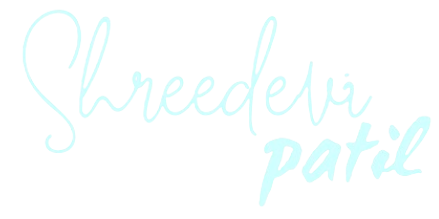
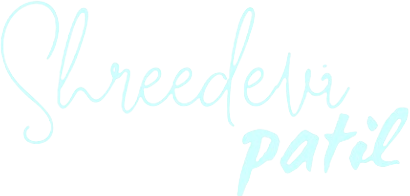
Fixed the issue of web-page getting navigated to home section

diff --git a/index.html b/index.html
@@ -11,12 +11,11 @@
     <!-- Bootstrap Icons CSS -->
     <link href="https://cdn.jsdelivr.net/npm/bootstrap-icons/font/bootstrap-icons.css" rel="stylesheet">
     <link rel="stylesheet" href="style.css">
-
 </head>
 <body>
 <div id="circle-container">
 </div>
-<nav class="navbar navbar-expand-lg">
+<nav class="navbar navbar-expand-lg fix-nav">
     <div class="w-100 center align-items-start justify-content-between">
         <img src="Assets/images/shreedevi.png" alt="Logo">
         <div>
@@ -25,7 +24,7 @@
                     aria-controls="offcanvasNavbar">
                 <span class="navbar-toggler-icon text-light"></span>
             </button>
-            <div class="collapse navbar-collapse d-lg-flex flex-wrap" id="navbarNav">
+            <div class="collapse navbar-collapse d-lg-flex flex-wrap">
                 <h3><a class="nav-item active-nav" href="#home">Home</a></h3>
                 <h3><a class="nav-item" href="#skills">Skills</a></h3>
                 <h3><a class="nav-item" href="#work">Work-experience</a></h3>
@@ -42,26 +41,16 @@
         <button type="button" class="btn-close bg-light" data-bs-dismiss="offcanvas" aria-label="Close"></button>
     </div>
     <div class="offcanvas-body">
-        <h3>
-            <a class="nav-item" href="#home">Home</a>
-        </h3>
-        <h3>
-            <a class="nav-item" href="#skills">Skills</a>
-        </h3>
-        <h3>
-            <a class="nav-item" href="#work">Work-experience</a>
-        </h3>
-        <h3>
-            <a class="nav-item" href="#project">Projects</a>
-        </h3>
-        <h3>
-            <a class="nav-item" href="#contact">Contact</a>
-        </h3>
+        <h3><a class="nav-item" href="#home">Home</a></h3>
+        <h3><a class="nav-item" href="#skills">Skills</a></h3>
+        <h3><a class="nav-item" href="#work">Work-experience</a></h3>
+        <h3><a class="nav-item" href="#project">Projects</a></h3>
+        <h3><a class="nav-item" href="#contact">Contact</a></h3>
     </div>
 </div>
 
 
-<section id="home" class="d-lg-flex justify-content-around p-5 m-auto">
+<section id="home" class="d-lg-flex justify-content-around p-5 m-auto mt-5">
     <img src="Assets/images/hi.gif" class="hi-image">
     <div class="intro text-center">
         <span class="hello"><b>Hello!</b></span>
@@ -386,7 +375,7 @@
 <!-- Resume -->
 <div class="resume">
     <div id="downloadResume">
-      <a href="Assets/Files/Shreedevi-RESUME.pdf" target="_blank" class="text-decoration-none text-light">
+        <a href="Assets/Files/Shreedevi-RESUME.pdf" target="_blank" class="text-decoration-none text-light">
             <i class="bi bi-file-text ps-1"></i>
             Get Resume
         </a>

diff --git a/script.js b/script.js
@@ -36,9 +36,8 @@ document.addEventListener('DOMContentLoaded', function () {
         circleContainer.appendChild(circleElement);
     }
 
+   /* // Smooth scroll to section
     const navItems = document.querySelectorAll('.nav-item');
-
-    // Smooth scroll to section
     navItems.forEach(item => {
         item.addEventListener('click', event => {
             event.preventDefault();
@@ -46,7 +45,8 @@ document.addEventListener('DOMContentLoaded', function () {
                 behavior: 'smooth'
             });
         });
-    });
+    });*/
+
     gsap.registerPlugin(TextPlugin);
     const phrases = [
         "Frontend Development",
@@ -102,15 +102,37 @@ document.addEventListener('DOMContentLoaded', function () {
     // Example animation
     document.querySelectorAll('section').forEach(sec => {
         gsap.from(sec, {
-            y: 200,
+            y: 100,
             opacity: 0,
             duration: 1,
             scrollTrigger: {
                 trigger: sec,
-                start: "top 100%", // When the top of the box hits 80% from the top of the viewport
-                end: "top 50%", // When the top of the box hits 50% from the top of the viewport
-                scrub: 1, // Smooth scrolling
-                toggleActions: "play none none reverse", // Play animation on scroll, reverse on scroll back
+                start: "top 80%",
+                end: "top 50%",
+                scrub: 1,
+                toggleActions: "play none none reverse",
+            }
+        });
+    });
+    const navItems = document.querySelectorAll('.nav-item');
+    const offcanvasElement = document.getElementById('offcanvasNavbar');
+    const bsOffcanvas = new bootstrap.Offcanvas(offcanvasElement);
+
+    navItems.forEach(item => {
+        item.addEventListener('click', event => {
+            event.preventDefault();
+
+            const targetId = item.getAttribute('href');
+            const targetElement = document.querySelector(targetId);
+
+            if (targetElement) {
+                targetElement.scrollIntoView({
+                    behavior: 'smooth'
+                });
+            }
+
+            if (window.innerWidth < 992) {  // Close offcanvas only on small screens
+                bsOffcanvas.hide();
             }
         });
     });

diff --git a/style.scss b/style.scss
@@ -249,7 +249,7 @@ nav {
   padding: 2rem 2rem 0 2rem !important;
 
   img {
-    height: 150px;
+    height: 90px;
     position: relative;
     top: -25px;
     right: 25px;
@@ -265,10 +265,6 @@ nav {
   color: $accent-color;
   font-family: cursive;
   font-style: italic;
-}
-
-#home {
-  padding-top: 0px !important;
 }
 
 .resume {
@@ -315,17 +311,12 @@ video {
     display: block;
     margin: 0 auto !important;
   }
-  .navbar-nav {
-    flex-direction: column;
-    text-align: center;
-  }
   video {
     width: 100%;
   }
   .carousel-item img {
     width: 100%;
   }
-
 }
 
 .cursor-pointer {
@@ -340,4 +331,13 @@ p a {
   box-shadow: -3px 2px 6px -1px;
   padding: 4px 20px;
   border-radius: 13px;
+}
+
+.fix-nav {
+  position: fixed;
+  background: rgba($background-color, 0.7);
+  top: 0;
+  width: 100%;
+  z-index: 5;
+  box-shadow: 0px -2px 6px 2px $secondary-color;
 }

diff --git a/style.css b/style.css
@@ -224,7 +224,7 @@ nav {
   padding: 2rem 2rem 0 2rem !important;
 }
 nav img {
-  height: 150px;
+  height: 90px;
   position: relative;
   top: -25px;
   right: 25px;
@@ -239,10 +239,6 @@ nav img {
   color: #ADEFD1;
   font-family: cursive;
   font-style: italic;
-}
-
-#home {
-  padding-top: 0px !important;
 }
 
 .resume {
@@ -284,10 +280,6 @@ video {
     display: block;
     margin: 0 auto !important;
   }
-  .navbar-nav {
-    flex-direction: column;
-    text-align: center;
-  }
   video {
     width: 100%;
   }
@@ -307,6 +299,15 @@ p a {
   box-shadow: -3px 2px 6px -1px;
   padding: 4px 20px;
   border-radius: 13px;
+}
+
+.fix-nav {
+  position: fixed;
+  background: rgba(32, 30, 67, 0.7);
+  top: 0;
+  width: 100%;
+  z-index: 5;
+  box-shadow: 0px -2px 6px 2px #508C9B;
 }
 
 /*# sourceMappingURL=style.css.map */
